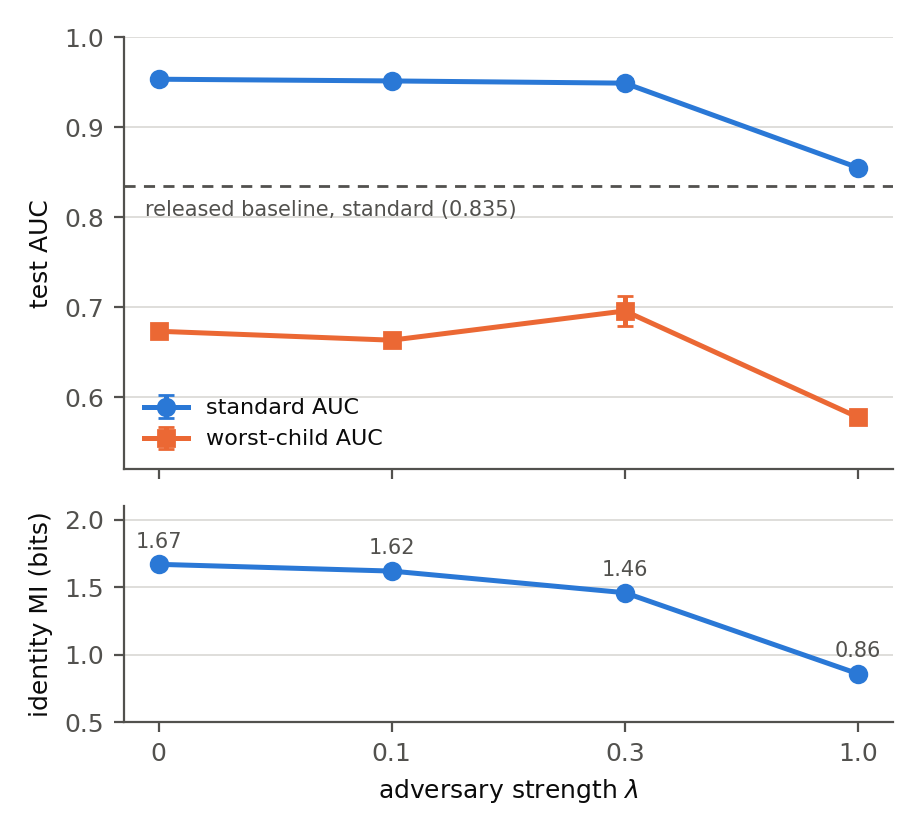
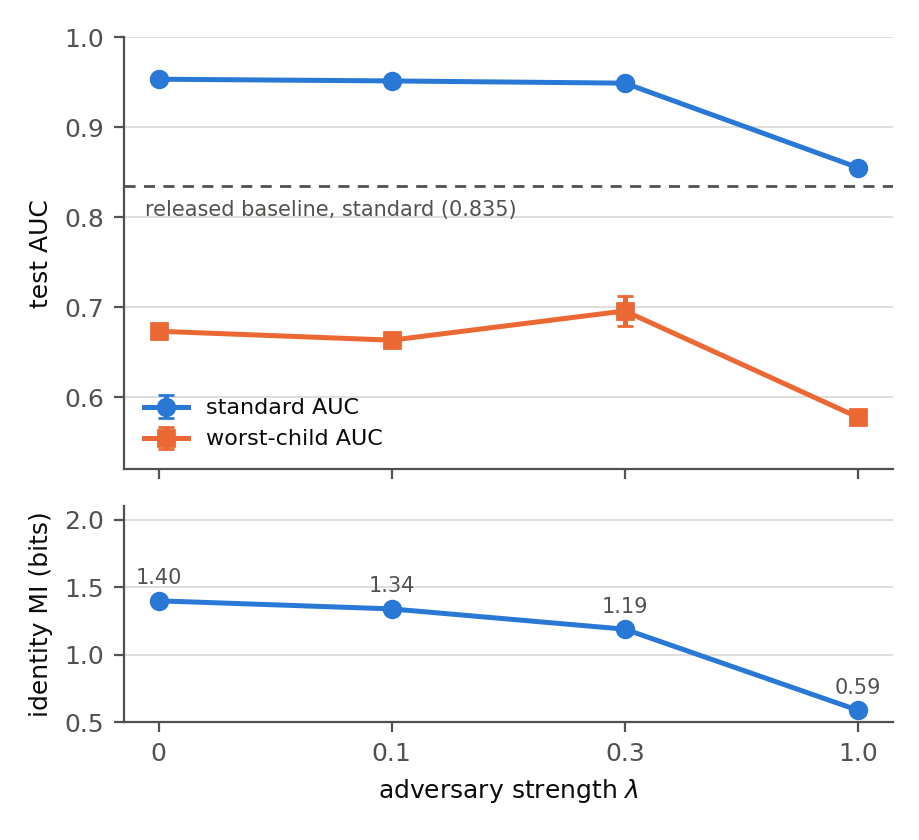
Correct MI probe to empirical-entropy bound; regenerate paper exhibits
H_emp(Y) - CE replaces the invalid log N - CE (inflation was 0.273
bits); majority-class chance floor replaces 1/N.  Corrected bounds: 1.40, 1.34, 1.19, 0.59 bits.

Changed region(s): [[0.1523, 0.619, 0.8531, 0.8048], [0.8226, 0.7429, 0.975, 0.8667]]

diff --git a/stage2/mi_probe.py b/stage2/mi_probe.py
@@ -7,6 +7,13 @@ held-out segments gives a lower bound on I(features; identity):
 
     I >= log(N) - CE_heldout        (nats; uniform prior over N children)
 
+The bound uses the EMPIRICAL entropy of the identity marginal, not
+log N: children contribute unequal segment counts, so H(Y) < log N, and
+substituting log N would inflate the bound (it would no longer be a
+lower bound). The chance floor reported is the majority-class rate, not
+1/N, for the same reason. This corrects an error in the first version
+of this script, found in review.
+
 The probe split is by segment within child (identity must appear on both
 sides, so a subject-level split is impossible here by construction).
 Reported for the v3 backbone (lambda 0) and each SAPL checkpoint.
@@ -98,11 +105,22 @@ def main():
     ce = -np.mean(np.log(np.clip(p_true, 1e-12, 1)))
     acc = float((probe.predict(scaler.transform(feats[~fit_mask])) == held).mean())
     n = len(children)
-    mi = max(0.0, np.log(n) - ce)
-    print(f"probe accuracy {acc:.4f} (chance {1/n:.4f})")
-    print(f"held-out CE {ce:.4f} nats; log(N) {np.log(n):.4f}")
-    print(f"MI lower bound: {mi:.4f} nats = {mi/np.log(2):.4f} bits "
-          f"(max {np.log(n)/np.log(2):.2f} bits)")
+    # empirical entropy of the held-out identity marginal (valid bound)
+    counts = np.bincount(held, minlength=n).astype(float)
+    p = counts / counts.sum()
+    h_emp = float(-(p[p > 0] * np.log(p[p > 0])).sum())
+    majority = float(p.max())
+    mi = max(0.0, h_emp - ce)
+    mi_naive = max(0.0, np.log(n) - ce)
+    print(f"probe accuracy {acc:.4f} (majority-class floor {majority:.4f}, "
+          f"uniform 1/N {1/n:.4f})")
+    print(f"held-out CE {ce:.4f} nats; H_emp(Y) {h_emp:.4f} nats "
+          f"({h_emp/np.log(2):.2f} bits); log(N) {np.log(n):.4f} "
+          f"(inflation if used: {(np.log(n)-h_emp)/np.log(2):.3f} bits)")
+    print(f"MI lower bound (corrected): {mi:.4f} nats = {mi/np.log(2):.4f} bits "
+          f"(max H_emp {h_emp/np.log(2):.2f} bits)")
+    print(f"[previous, invalid log-N bound would have read: "
+          f"{mi_naive/np.log(2):.4f} bits]")
 
 
 if __name__ == "__main__":

diff --git a/results/make_paper_tables.py b/results/make_paper_tables.py
@@ -107,7 +107,7 @@ open(f"{OUT}/table_ablation.tex", "w").write("\n".join(lines) + "\n")
 # SAPL tradeoff with per-child stats and MI (MI values from stage2 logs,
 # reproduced by stage2/mi_probe.py; kept as a documented constant map so
 # this script has no GPU dependency)
-MI_BITS = {"0": 1.6697, "0.1": 1.6175, "0.3": 1.4586, "1.0": 0.8633}
+MI_BITS = {"0": 1.3965, "0.1": 1.3444, "0.3": 1.1854, "1.0": 0.5902}  # corrected H_emp(Y)-CE bound
 SAPL = [
     ("0", "results/segment_scores/stage1_detector_v3_test_scores.csv"),
     ("0.1", "results/segment_scores/stage2_sapl_lam0.1_test_scores.csv"),

diff --git a/results/tables/table_sapl.tex b/results/tables/table_sapl.tex
@@ -1,0 +1,12 @@
+\begin{tabular}{lccccc}
+\toprule
+$\lambda$ & standard AUC & per-child mean & worst child & gap & identity MI (bits) \\
+\midrule
+0 & 0.953 & 0.950 & 0.673 & 0.327 & 1.40 \\
+0.1 & 0.951 & 0.951 & 0.664 & 0.336 & 1.34 \\
+0.3 & 0.951 & 0.950 & 0.719 & 0.280 & 1.19 \\
+1.0 & 0.855 & 0.853 & 0.578 & 0.417 & 0.59 \\
+\midrule
+0.3, 3 seeds & 0.949 $\pm$ 0.004 & & 0.696 $\pm$ 0.016 & 0.304 $\pm$ 0.017 & \\
+\bottomrule
+\end{tabular}

diff --git a/results/tables/table_main.tex b/results/tables/table_main.tex
@@ -1,0 +1,10 @@
+\begin{tabular}{lrccc}
+\toprule
+model & params & standard AUC & hard-negative AUC & $\Delta$ \\
+\midrule
+quality-only logistic regression & 5 & 0.714 & 0.502 & -0.211 \\
+released PoseConv3D checkpoint & 3.0M & 0.835 & 0.797 & -0.038 \\
+ours, coordinates only (v1) & 353K & 0.843 & 0.759 & -0.084 \\
+ours, full recipe (v3) & 353K & 0.953 & 0.943 & -0.011 \\
+\bottomrule
+\end{tabular}

diff --git a/results/make_paper_figures.py b/results/make_paper_figures.py
@@ -75,7 +75,7 @@ LAM_FILES = {
             "results/segment_scores/stage2_sapl_lam0.3_seed2_test_scores.csv"],
     "1.0": ["results/segment_scores/stage2_sapl_lam1.0_test_scores.csv"],
 }
-MI_BITS = {"0": 1.67, "0.1": 1.62, "0.3": 1.46, "1.0": 0.86}
+MI_BITS = {"0": 1.40, "0.1": 1.34, "0.3": 1.19, "1.0": 0.59}  # corrected H_emp(Y)-CE bound
 
 lams = list(LAM_FILES)
 x = np.arange(len(lams))

diff --git a/results/tables/table_ablation.tex b/results/tables/table_ablation.tex
@@ -1,0 +1,12 @@
+\begin{tabular}{lcc}
+\toprule
+variant & standard AUC & hard-negative AUC \\
+\midrule
+neither (v1) & 0.843 & 0.759 \\
+velocity only & 0.931 & 0.918 \\
+joint dropout only & 0.938 & 0.926 \\
+both (v2) & 0.940 & 0.927 \\
+\midrule
+both, 3 seeds & 0.944 $\pm$ 0.003 & 0.929 $\pm$ 0.004 \\
+\bottomrule
+\end{tabular}
